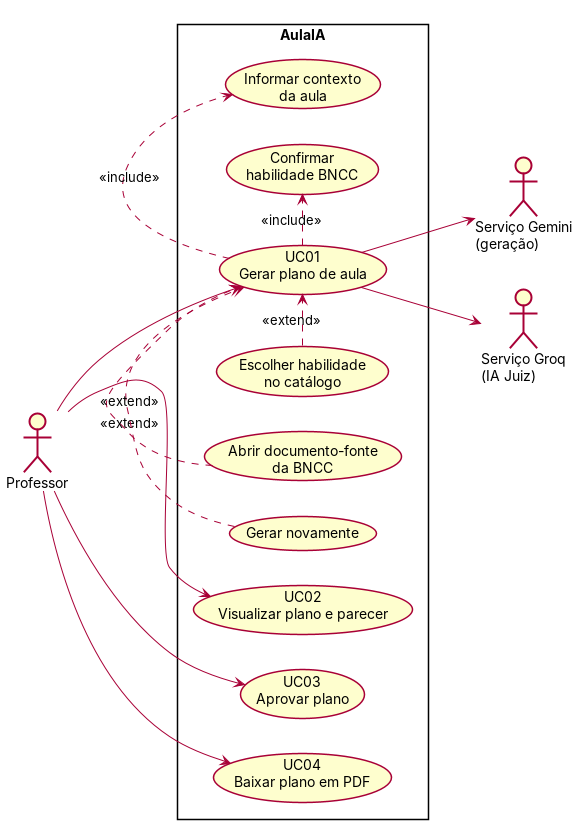
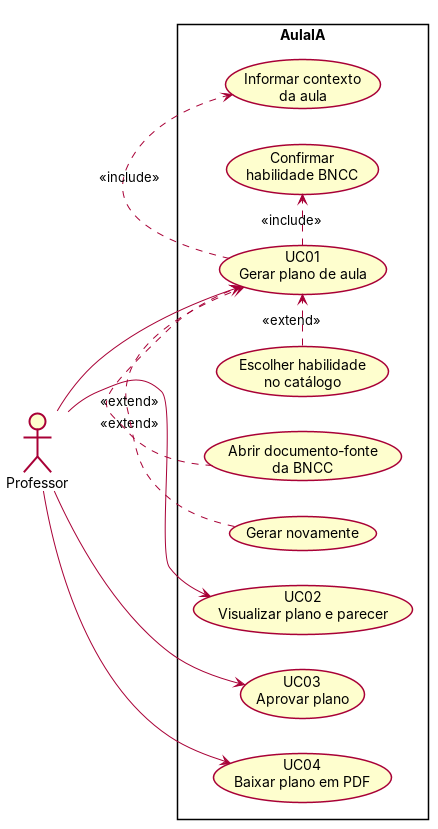
docs(diagramas): casos de uso so com o professor como ator (decisao do Joao); variantes retiradas
Claude-Session: https://claude.ai/code/session_01RJpZSpMN8cWSxx5N4oVpTe

diff --git a/docs/diagramas/final/ilustradas/casos_de_uso_uml.py b/docs/diagramas/final/ilustradas/casos_de_uso_uml.py
@@ -1,10 +1,9 @@
 """Diagrama de casos de uso do AulaIA em SVG desenhado à mão (notação UML: bonecos, elipses, «include»/«extend» tracejados).
 
 Mesmo conteúdo de ../casos-de-uso.puml, com layout fixo (sem posicionamento automático). Só biblioteca padrão.
-Duas variantes, para o João escolher (25/11):
-  tres-atores  professor (ator principal) + dois serviços de LLM como atores secundários externos;
-  um-ator      só o professor; as APIs de LLM ficam no diagrama de componentes.
-Uso: python casos_de_uso_uml.py  → escreve ../casos-de-uso-uml-tres-atores.svg e ../casos-de-uso-uml-um-ator.svg
+Variante oficial (escolha do João, 25/11): um-ator, só o professor; as APIs de LLM ficam no diagrama de componentes.
+A variante tres-atores (APIs como atores secundários) foi considerada e descartada; o código continua em svg("tres-atores").
+Uso: python casos_de_uso_uml.py  → escreve ../casos-de-uso-uml.svg
 (o PNG sai pelo render.js, escala 2).
 """
 from math import hypot, sqrt
@@ -135,7 +134,8 @@ def svg(variante):
     return "\n".join(partes)
 
 if __name__ == "__main__":
-    for variante in ("tres-atores", "um-ator"):
-        destino = Path(__file__).resolve().parent.parent / f"casos-de-uso-uml-{variante}.svg"
-        destino.write_text(svg(variante), encoding="utf-8")
-        print(destino)
+    # Decisão do João (25/11): só o professor como ator; as APIs de LLM ficam no diagrama de componentes.
+    # A variante "tres-atores" continua disponível em svg("tres-atores"), mas não é gerada.
+    destino = Path(__file__).resolve().parent.parent / "casos-de-uso-uml.svg"
+    destino.write_text(svg("um-ator"), encoding="utf-8")
+    print(destino)
